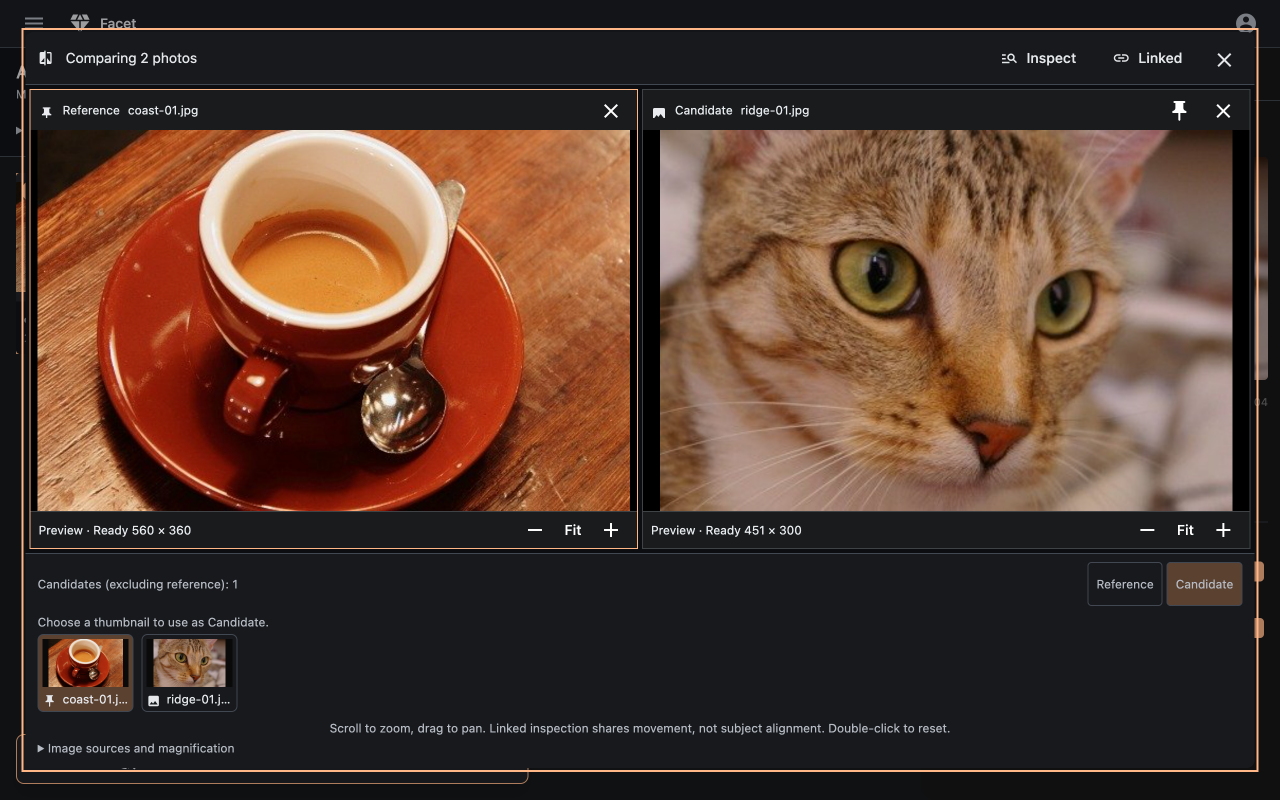
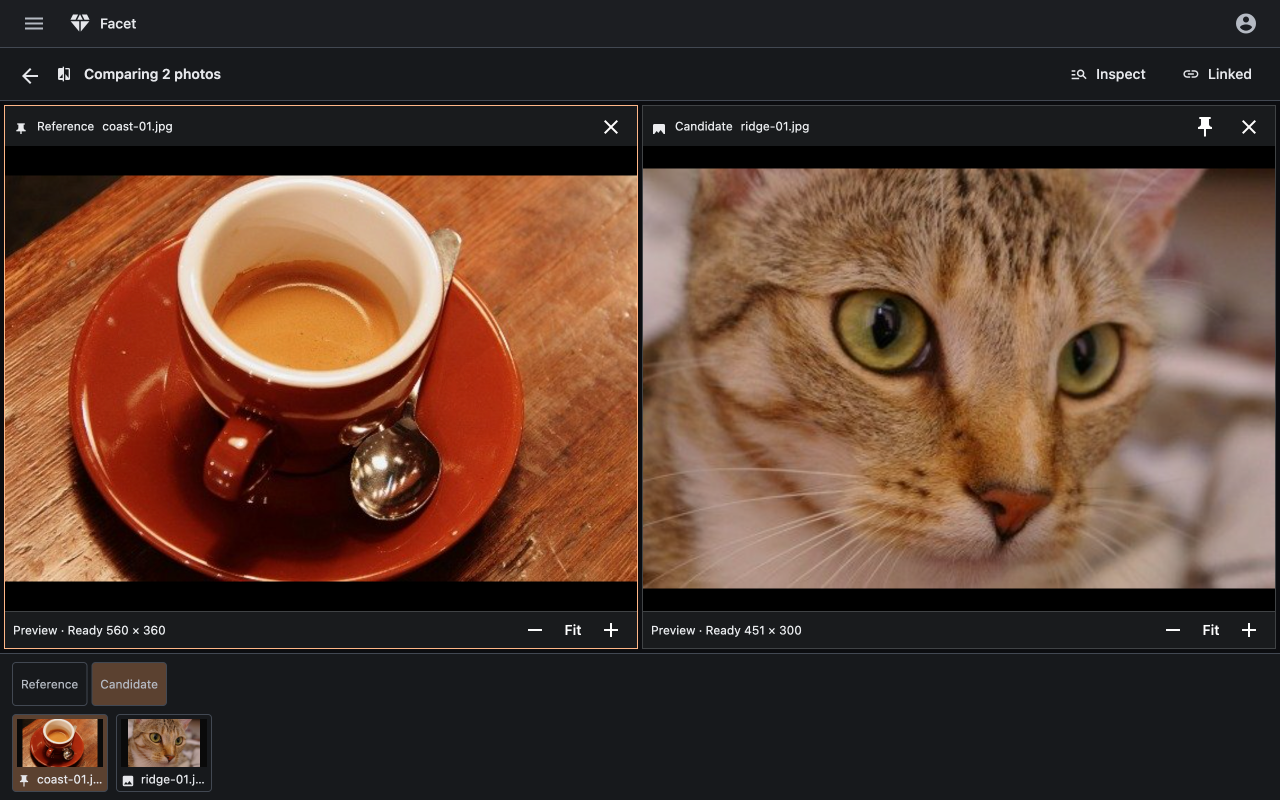
Update current workspace and mobile screenshot evidence

diff --git a/README.md b/README.md
@@ -1,13 +1,7 @@
-# Facet redesign screenshot evidence
+# Facet UI review screenshots
 
-Actual browser screenshots, captured 2026-11-01. Desktop/comparison 1280×800; phone390×844. Dark theme, Grid layout, details shown, same private18-photo fixture. Master frontend9d729f79; redesign frontend8195e7e6. Both use the same isolated fixture backend; these screenshots compare frontend behavior, not separate backend versions. Metadata, filenames, scores and groups are synthetic.
+Unedited browser PNGs of upstream master9d729f79 and redesigna2101304bfd994089a4146f643f17e5692bde428. Desktop/comparison1280×800, phone390×844; matched dark theme, Grid/details settings and private fixture. The comparison images show the same two photos. Both frontends use the isolated fixture backend. Metadata, scores and filenames are synthetic. No user library is shown.
 
-The two source photos are CC0: Coffee by Rachel Michetti; Chelsea by Stefan van der Walt. Crops derived for test fixtures. Exact sources and license links: photo-credits.json. No user library appears here. Screenshots are unedited PNGs.
+Coffee by Rachel Michetti and Chelsea by Stefan van der Walt are CC0; crops are used for fixture variation. See photo-credits.json for exact upstream sources and licenses.
 
-The redesigned comparison is still a popup in this baseline. A dedicated comparison workspace is requested and remains unfinished; the screenshot does not claim that change exists.
-
-## Corrected evidence
-
-The first screenshot set contained a pending service-worker update notice. It was withdrawn and replaced using a fresh browser profile. All six replacements were visually inspected; neither page contains the update notice. Browser script URLs and SHA256 match the frozen build files; see capture-verification.json. Both pages are in read-only mode.
-
-These images show an unfinished design, not a claim that every view improved. The phone collection header consumes217CSSpx before the image grid. Comparison still has excessive control height and uses the rejected popup. Those are outstanding design issues.
+The initial screenshot set with a pending reload notice was withdrawn. The current images were visually inspected, with no update notice. capture-verification.json records source heads and checks. Mobile and comparison are ready for feedback; this is not a claim of user approval or release readiness.
